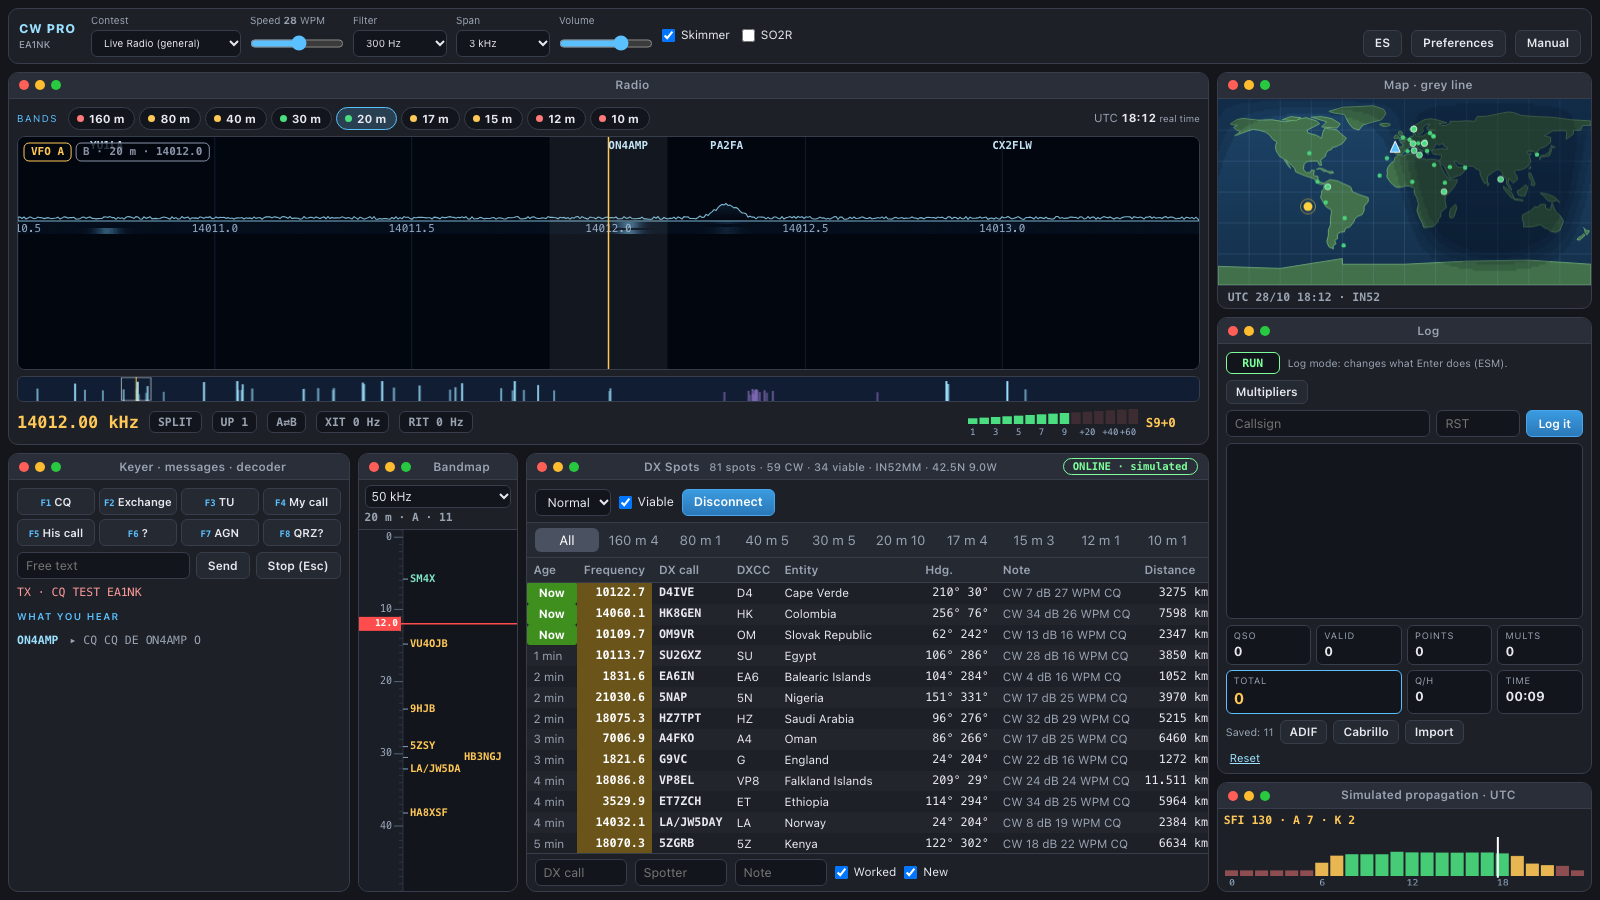
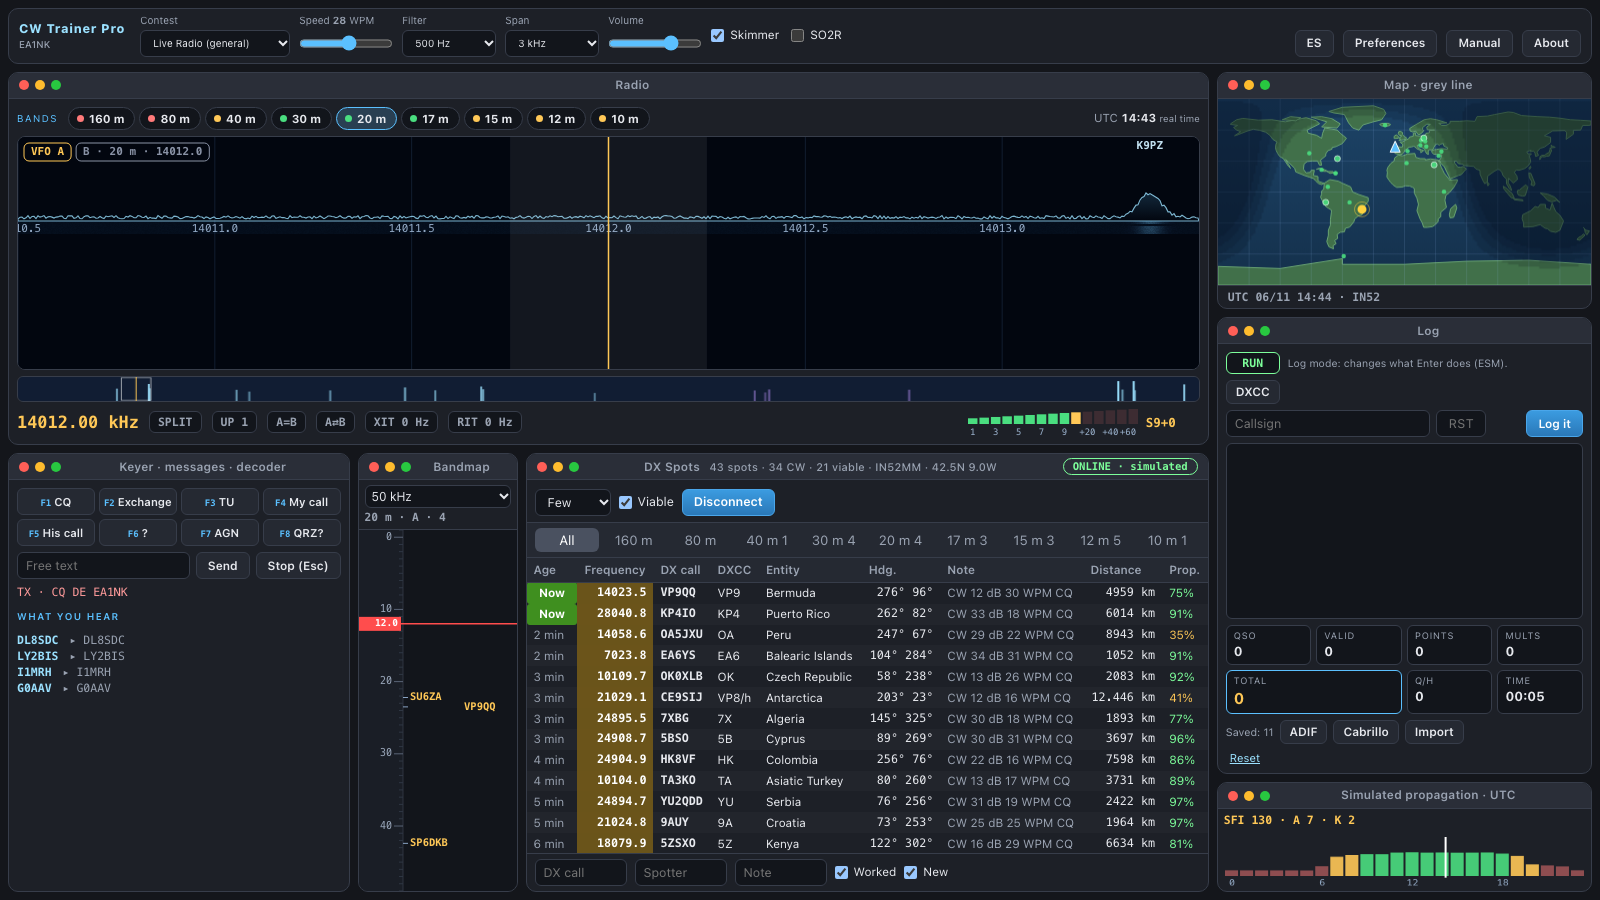
CW PRO pasa a llamarse CW Trainer Pro
README, LEEME, licencia, avisos de terceros y capturas con el nombre nuevo; la ruta de la aplicación de macOS es ahora /Applications/CW Trainer Pro.app.

diff --git a/THIRD-PARTY-NOTICES.md b/THIRD-PARTY-NOTICES.md
@@ -1,12 +1,21 @@
 # Third-party notices / Avisos de terceros
 
-CW PRO includes the open-source components listed below, each under its own license. / CW PRO incluye los componentes de código abierto que se listan a continuación, cada uno con su propia licencia.
+CW Trainer Pro includes the open-source components listed below, each under its own license. / CW Trainer Pro incluye los componentes de código abierto que se listan a continuación, cada uno con su propia licencia.
 
 ## Data files / Ficheros de datos
 
 - **cty.dat / cty.csv** — country files from [country-files.com](https://www.country-files.com).
 - **MASTER.SCP** — Super Check Partial database, from [supercheckpartial.com](https://www.supercheckpartial.com).
 - **IOTA list** — not included with the application. If the user chooses to download it from within the application, it is fetched directly from [iota-world.org](https://www.iota-world.org) for the user's own personal, non-commercial use; the IOTA Directory is © Radio Society of Great Britain (RSGB) and Islands On The Air (IOTA) Ltd. / No se incluye con la aplicación: si el usuario decide descargarla desde ella, se baja directamente de iota-world.org para su uso personal y no comercial; el IOTA Directory es © RSGB e IOTA Ltd.
+
+## Linux AppImage: bundled system libraries / Bibliotecas del sistema incluidas
+
+Only the Linux **AppImage** bundles system libraries; the .deb and .rpm packages, Windows (WebView2) and macOS (WKWebView) use the ones already in the operating system. / Solo el **AppImage** de Linux lleva bibliotecas del sistema; los paquetes .deb y .rpm, Windows (WebView2) y macOS (WKWebView) usan las del propio sistema.
+
+- They are the unmodified binary packages of **Ubuntu 22.04 LTS (jammy)**, among them WebKitGTK, GTK 3, GLib, Pango, Cairo, libsoup and GStreamer with its base and good plugins, mostly under the **GNU LGPL** and other open-source licenses. / Son los paquetes binarios sin modificar de **Ubuntu 22.04 LTS (jammy)**, entre ellos WebKitGTK, GTK 3, GLib, Pango, Cairo, libsoup y GStreamer con sus complementos base y good, en su mayoría con licencia **GNU LGPL** y otras licencias de código abierto.
+- The license and copyright notice of each package are inside the AppImage, in `usr/share/doc/<package>/copyright`; the list of packages with their exact versions is in `usr/share/doc/BUNDLED-PACKAGES.txt` and is published as `ubuntu-packages.txt` with each release. / La licencia y el aviso de copyright de cada paquete están dentro del AppImage, en `usr/share/doc/<paquete>/copyright`; la lista de paquetes con sus versiones exactas está en `usr/share/doc/BUNDLED-PACKAGES.txt` y se publica como `ubuntu-packages.txt` con cada versión.
+- **Source code**: the corresponding source of every package and version is available from the Ubuntu archive, at `https://launchpad.net/ubuntu/+source/<source package>` or with `apt-get source <source package>=<version>`. / **Código fuente**: el de cada paquete y versión está en el archivo de Ubuntu, en `https://launchpad.net/ubuntu/+source/<paquete fuente>` o con `apt-get source <paquete fuente>=<versión>`.
+- The libraries are separate shared objects (`usr/lib`) loaded at run time, so they can be replaced with modified versions: extract the AppImage with `--appimage-extract`, swap the library and run `squashfs-root/AppRun`. / Las bibliotecas son objetos compartidos independientes (`usr/lib`) que se cargan al arrancar, así que pueden sustituirse por versiones modificadas: extrae el AppImage con `--appimage-extract`, cambia la biblioteca y ejecuta `squashfs-root/AppRun`.
 
 ## Software components (Rust crates) / Componentes de software
 

diff --git a/LEEME.md b/LEEME.md
@@ -1,11 +1,11 @@
-# Simulador de Concursos CW — CW PRO
+# CW Trainer Pro — Simulador de Concursos CW
 
 [🇬🇧 English](README.md) · **🇪🇸 Castellano**
 
 **Practica concursos de telegrafía y operación diaria en HF sin radio, sin antena y sin banda.**
-CW PRO es un simulador de escritorio de [EA1NK](https://github.com/ea1nk) que te sienta en la silla de una estación de concurso: un waterfall lleno de estaciones, pileups que te llaman, intercambios reales, una propagación que sigue al sol y un log que se comporta como los que usas en el aire.
+CW Trainer Pro es un simulador de escritorio de [EA1NK](https://github.com/ea1nk) que te sienta en la silla de una estación de concurso: un waterfall lleno de estaciones, pileups que te llaman, intercambios reales, una propagación que sigue al sol y un log que se comporta como los que usas en el aire.
 
-![Ventana principal de CW PRO](docs/screenshots/main-es.png)
+![Ventana principal de CW Trainer Pro](docs/screenshots/main-es.png)
 
 ## Descarga
 
@@ -23,8 +23,9 @@ De momento los instaladores no están firmados:
   - abre **Ajustes del Sistema › Privacidad y seguridad** y pulsa **Abrir igualmente** (macOS 15), o clic derecho sobre la aplicación → **Abrir** (macOS 13–14); o
   - ejecuta esto una vez en Terminal, que quita la marca de cuarentena de la descarga (la opción más fiable, y la que hay que usar si macOS dice que la aplicación está *«dañada»*):
     ```
-    xattr -cr "/Applications/CW Contest Simulator.app"
+    xattr -cr "/Applications/CW Trainer Pro.app"
     ```
+    (Hasta la versión 0.1.5 la aplicación se llamaba *CW PRO* y se instalaba como `CW Contest Simulator.app`.)
 - **Windows** — SmartScreen puede avisarte: elige **Más información → Ejecutar de todas formas**.
 
 Necesitas macOS 13 o posterior, Windows con WebView2 (incluido en Windows 11) o un escritorio Linux con WebKitGTK. No hace falta conexión para usarlo; solo se usa para los spots reales del DX Cluster, el clima espacial real y las actualizaciones de datos.

diff --git a/README.md b/README.md
@@ -1,11 +1,11 @@
-# CW Contest Simulator — CW PRO
+# CW Trainer Pro — CW Contest Simulator
 
 **🇬🇧 English** · [🇪🇸 Castellano](LEEME.md)
 
 **Practise CW contesting and everyday HF operating without a radio, an antenna or a band.**
-CW PRO is a desktop simulator by [EA1NK](https://github.com/ea1nk) that puts you in the chair of a contest station: a waterfall full of stations, pile-ups that call you, real contest exchanges, propagation that follows the sun, and a logger that behaves like the ones you use on the air.
+CW Trainer Pro is a desktop simulator by [EA1NK](https://github.com/ea1nk) that puts you in the chair of a contest station: a waterfall full of stations, pile-ups that call you, real contest exchanges, propagation that follows the sun, and a logger that behaves like the ones you use on the air.
 
-![CW PRO main window](docs/screenshots/main-en.png)
+![CW Trainer Pro main window](docs/screenshots/main-en.png)
 
 ## Download
 
@@ -23,8 +23,9 @@ The installers are not code-signed yet:
   - open **System Settings › Privacy & Security** and click **Open Anyway** (macOS 15), or right-click the app → **Open** (macOS 13–14); or
   - run this once in Terminal, which removes the download quarantine (the most reliable option, and the one to use if macOS says the app is *"damaged"*):
     ```
-    xattr -cr "/Applications/CW Contest Simulator.app"
+    xattr -cr "/Applications/CW Trainer Pro.app"
     ```
+    (Up to version 0.1.5 the app was called *CW PRO* and installed as `CW Contest Simulator.app`.)
 - **Windows** — SmartScreen may warn you: choose **More info → Run anyway**.
 
 You need macOS 13 or later, Windows with WebView2 (included in Windows 11), or a Linux desktop with WebKitGTK. No internet connection is needed to use it; it is only used for live DX spots, real space weather and data updates.

diff --git a/LICENSE.md b/LICENSE.md
@@ -2,7 +2,7 @@
 
 ## English
 
-**CW Contest Simulator — CW PRO** is **freeware**: you can download, install, use and share it free of charge.
+**CW Trainer Pro** is **freeware**: you can download, install, use and share it free of charge.
 
 Copyright © 2026 EA1NK. The source code is not published. Please share the installers unmodified, and do not sell or alter the software.
 
@@ -10,7 +10,7 @@ The software is provided **"as is"**, without warranty of any kind (see the [dis
 
 ## Castellano
 
-**Simulador de Concursos CW — CW PRO** es **freeware**: puedes descargarlo, instalarlo, usarlo y compartirlo de forma gratuita.
+**CW Trainer Pro** es **freeware**: puedes descargarlo, instalarlo, usarlo y compartirlo de forma gratuita.
 
 Copyright © 2026 EA1NK. El código fuente no se publica. Comparte los instaladores sin modificar y no vendas ni alteres el software.
 
